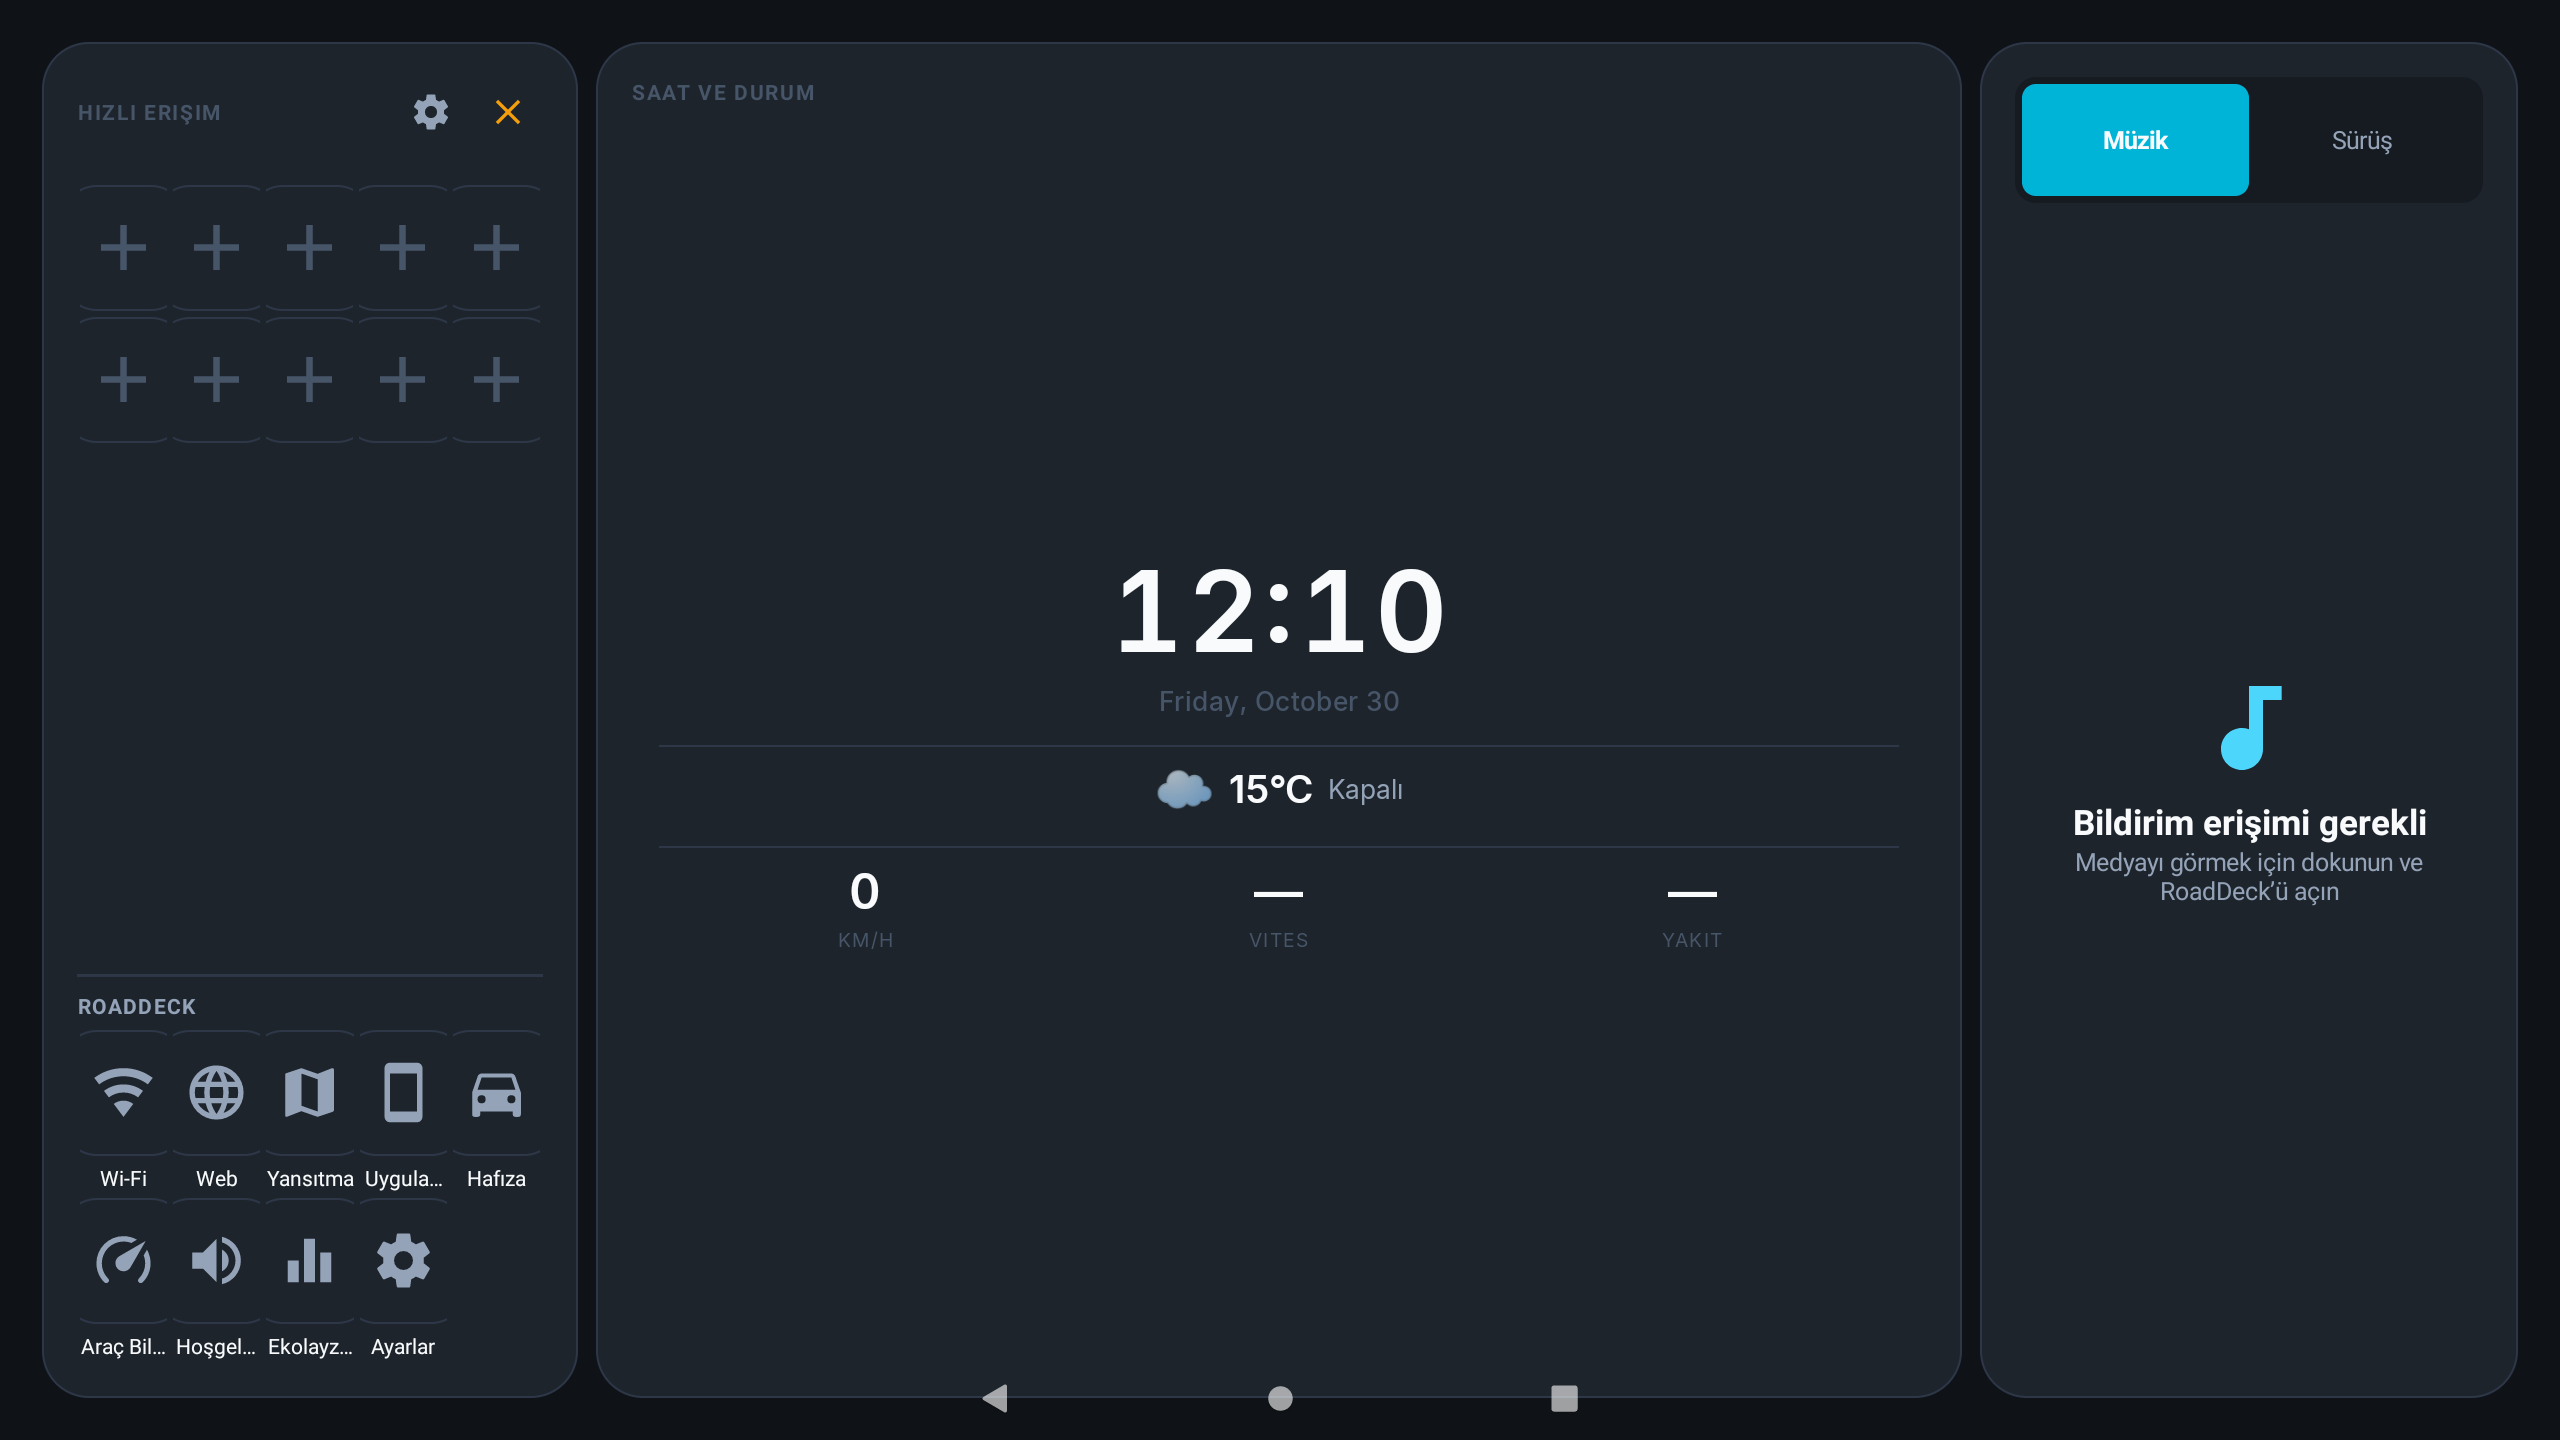
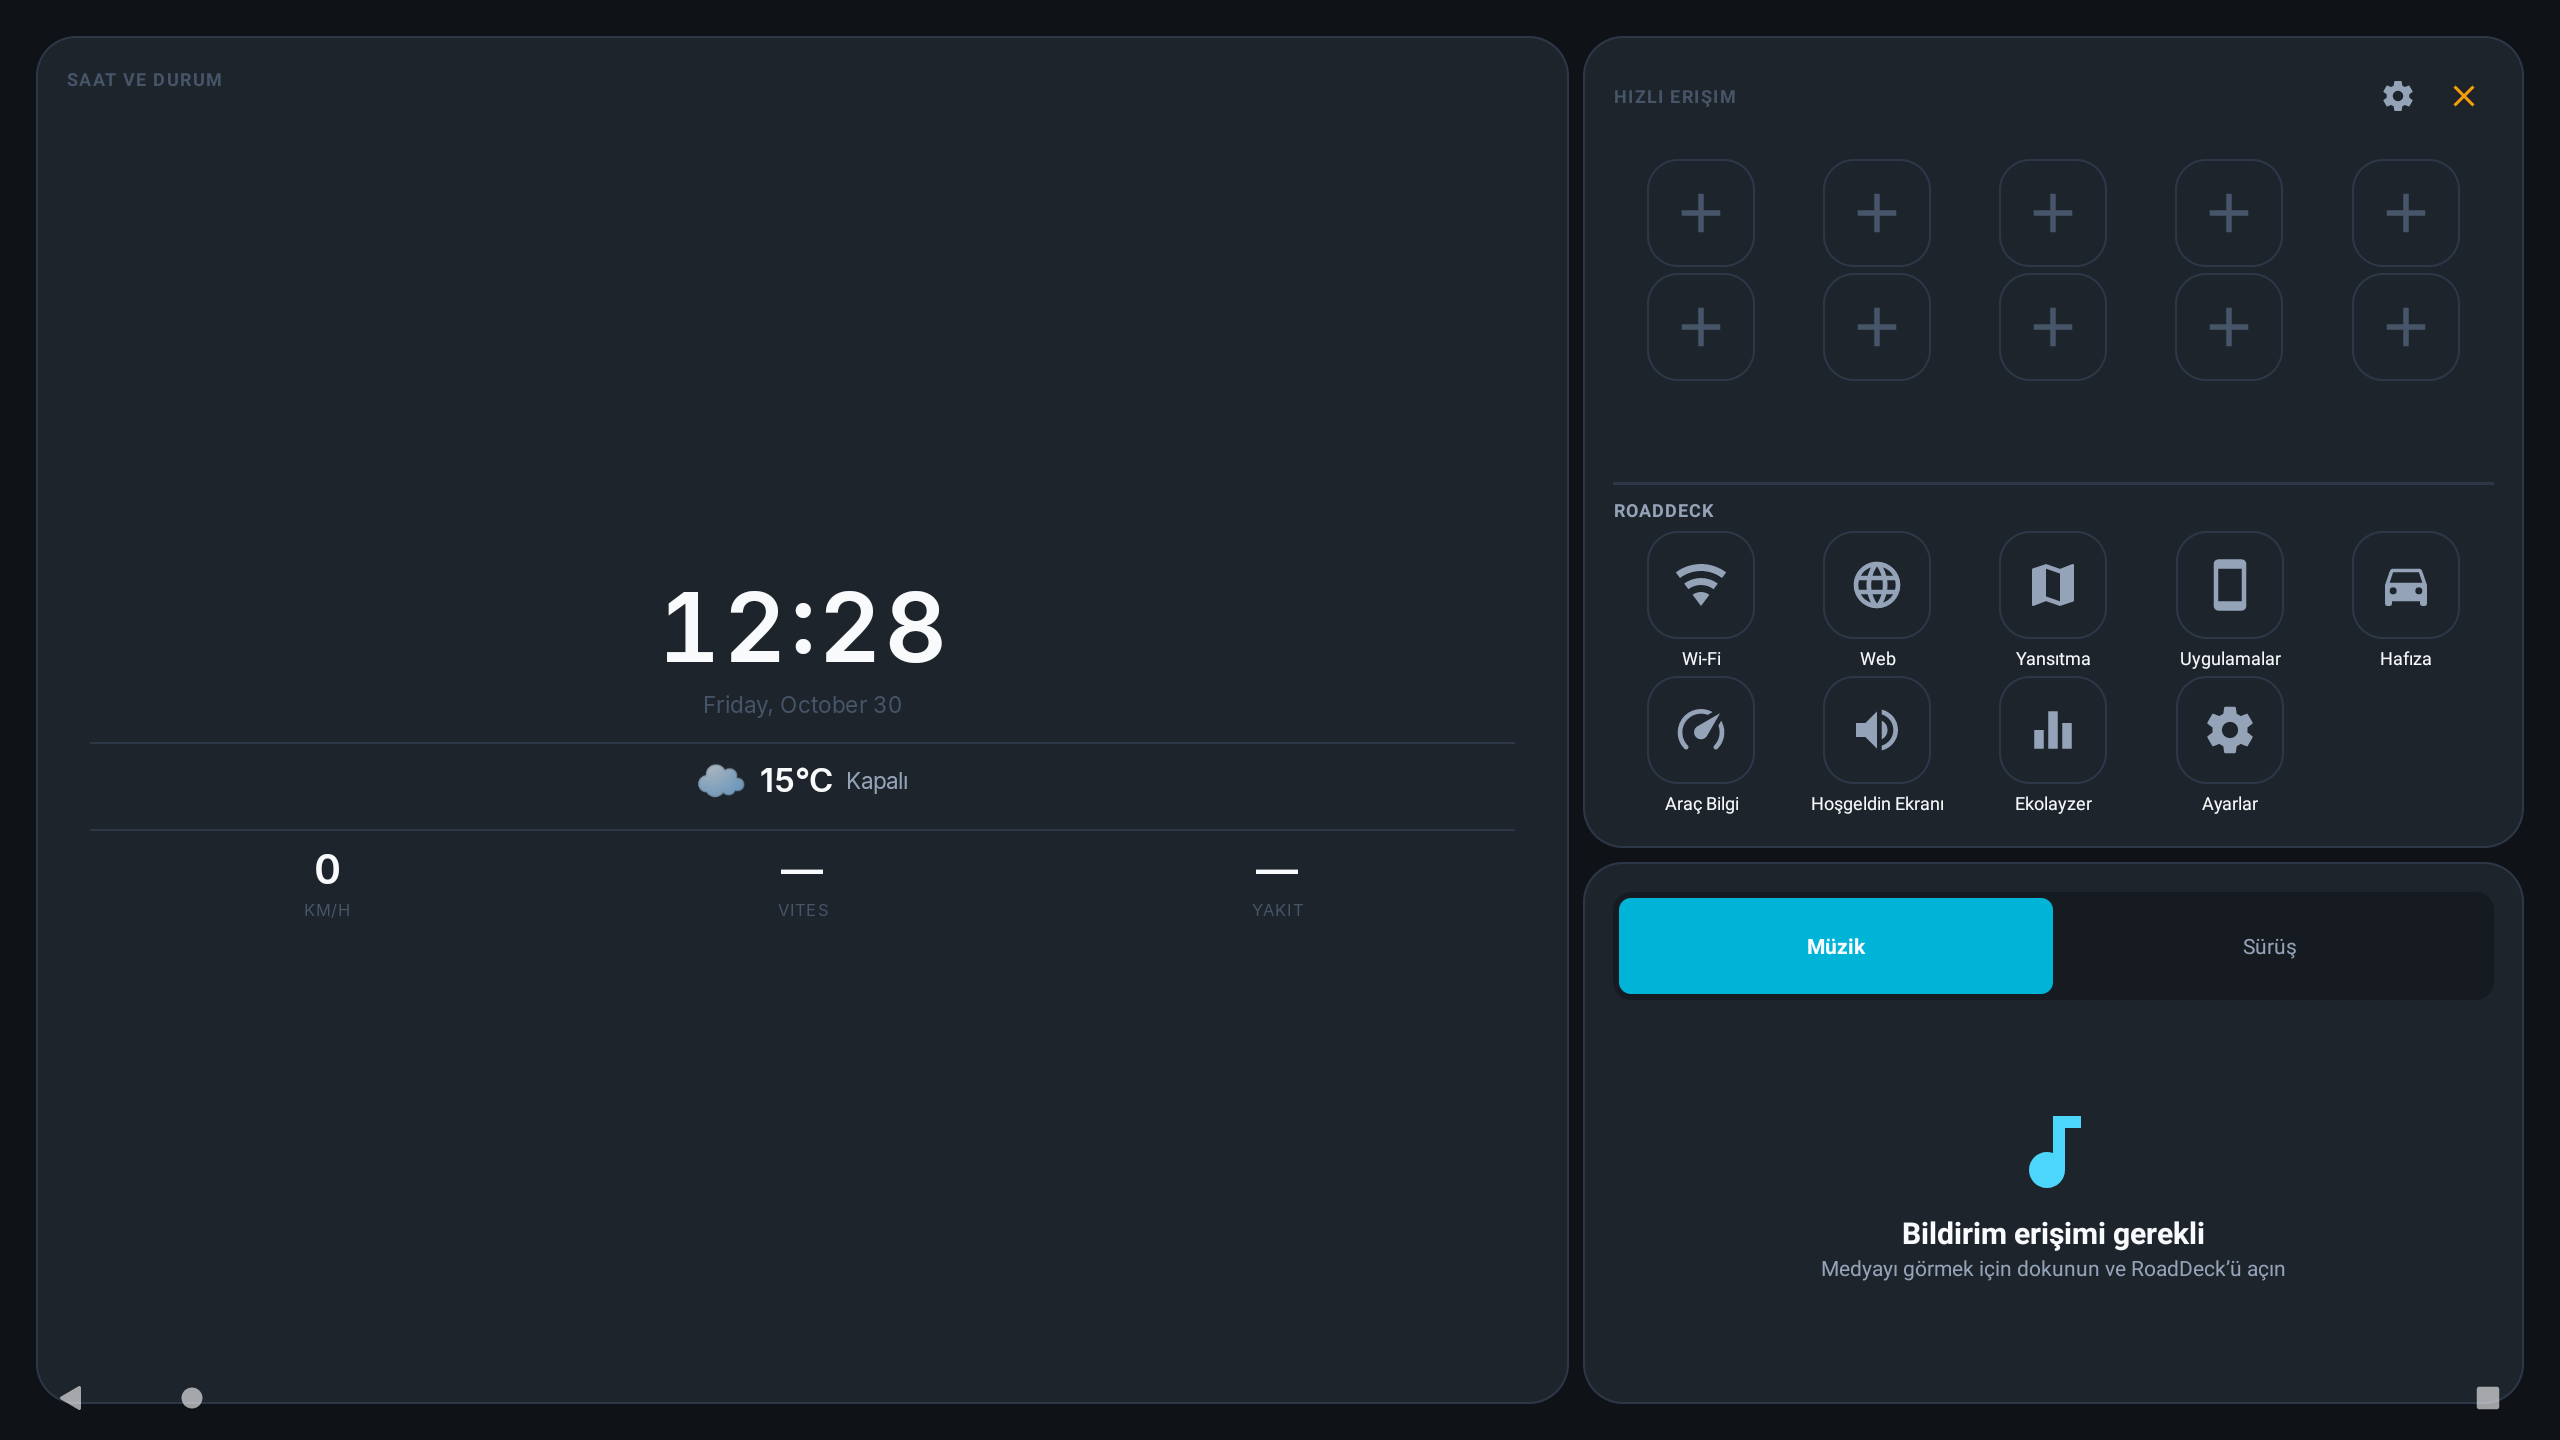
F5: launcher dashboard 5/8 arac + 3/8 dikey kart yigini
- Sol: saat/arac karti; sag: hizli erisim ustte, medya/surus altta
- 3D model emulator ortaminda bulunmadigi icin lite panel kullanildi
- F4: Ayarlar master/detail rapora islendi

diff --git a/app/src/main/java/com/mapcontrol/ui/builder/LauncherDashboardBuilder.java b/app/src/main/java/com/mapcontrol/ui/builder/LauncherDashboardBuilder.java
@@ -180,18 +180,27 @@ public final class LauncherDashboardBuilder implements
             musicDriveLp.topMargin = cardGap / 2;
             cardsRow.addView(musicDriveCard, musicDriveLp);
         } else {
-            LinearLayout.LayoutParams quickLp = weightedLp(0.22f);
-            quickLp.setMarginEnd(cardGap / 2);
-            cardsRow.addView(quickCard, quickLp);
+            // Plan §10: sol 5/8 araç, sağ 3/8 dikey kart yığını.
+            LinearLayout rightStack = new LinearLayout(context);
+            rightStack.setOrientation(LinearLayout.VERTICAL);
 
-            LinearLayout.LayoutParams vehicleLp = weightedLp(0.56f);
-            vehicleLp.setMarginStart(cardGap / 2);
+            LinearLayout.LayoutParams quickLp = new LinearLayout.LayoutParams(
+                    LinearLayout.LayoutParams.MATCH_PARENT, 0, 3f);
+            quickLp.bottomMargin = cardGap / 2;
+            rightStack.addView(quickCard, quickLp);
+
+            LinearLayout.LayoutParams musicDriveLp = new LinearLayout.LayoutParams(
+                    LinearLayout.LayoutParams.MATCH_PARENT, 0, 2f);
+            musicDriveLp.topMargin = cardGap / 2;
+            rightStack.addView(musicDriveCard, musicDriveLp);
+
+            LinearLayout.LayoutParams vehicleLp = weightedLp(0.62f);
             vehicleLp.setMarginEnd(cardGap / 2);
             cardsRow.addView(vehicleCard, vehicleLp);
 
-            LinearLayout.LayoutParams musicDriveLp = weightedLp(0.22f);
-            musicDriveLp.setMarginStart(cardGap / 2);
-            cardsRow.addView(musicDriveCard, musicDriveLp);
+            LinearLayout.LayoutParams stackLp = weightedLp(0.38f);
+            stackLp.setMarginStart(cardGap / 2);
+            cardsRow.addView(rightStack, stackLp);
         }
 
         LinearLayout.LayoutParams cardsRowLp = portrait
